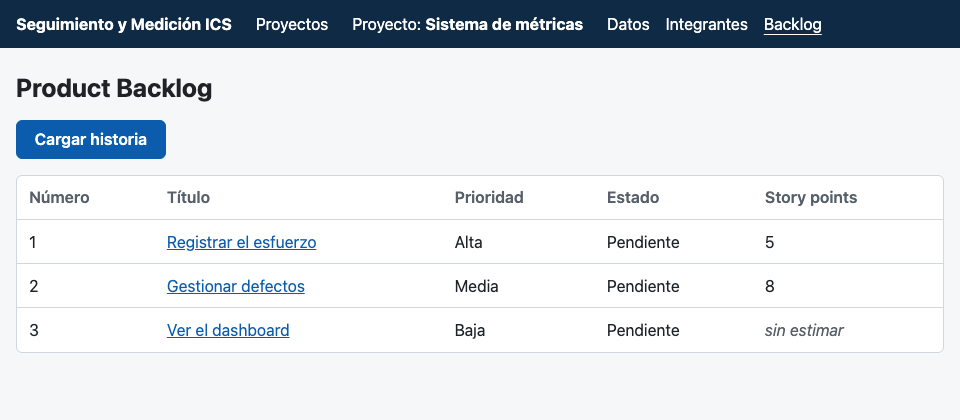
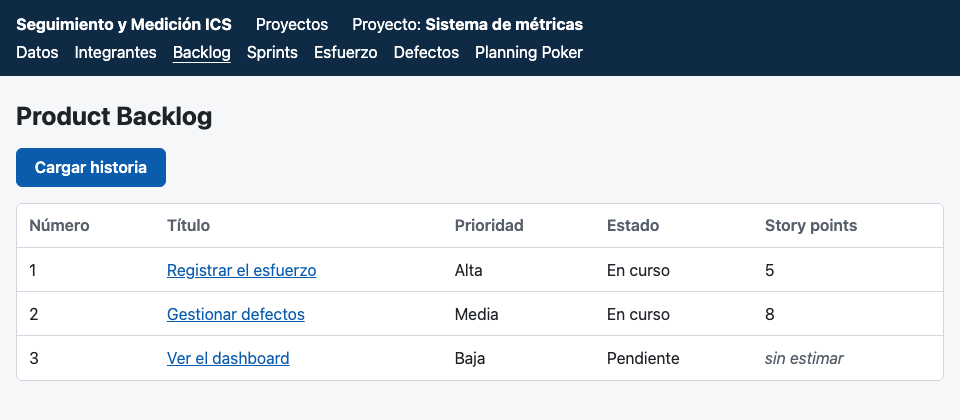
docs: el manual de usuario con las pantallas de la #78 (sprints, esfuerzo, defectos y Planning Poker)
Suma las secciones de sprints (con el cierre), esfuerzo y horas estimadas,
defectos y Planning Poker, el resumen del proyecto, la barra nueva y las
filas de «Si algo sale mal». Las capturas se rehicieron todas, porque la
barra cambió, y se suman las de las pantallas nuevas. El reporte y su PDF
se suman cuando estén la #18 y la #19.

Refs #78

diff --git a/docs/manual-de-usuario.md b/docs/manual-de-usuario.md
@@ -2,10 +2,11 @@
 
 Guía breve para usar el sistema de seguimiento y medición de proyectos. Crece a medida que
 se terminan las historias: hoy cubre la **interfaz web** (historia #77) y la **interfaz de
-consola** (historia #24). Las pantallas de la #78 se suman cuando estén en `dev`.
+consola** (historia #24), y en la web también los sprints, el esfuerzo, los defectos y el
+Planning Poker (historia #78). El reporte y su PDF se suman cuando estén terminados.
 
-Las dos interfaces hacen lo mismo con los proyectos, los integrantes y el backlog, pero **no
-comparten los datos**: la web los guarda en un archivo y los encuentra al volver a abrirla;
+Las dos interfaces hacen lo mismo con los proyectos, los integrantes y el backlog; lo demás
+se hace solo desde la web. **No comparten los datos**: la web los guarda en un archivo y los encuentra al volver a abrirla;
 la consola los pierde al cerrarse.
 
 ## Desde el navegador
@@ -35,12 +36,16 @@ navegador. No hace falta internet. Para cerrarlo, volvé a la terminal y apretá
 ### Cómo se usa
 
 - **La barra de arriba** lleva siempre a la lista de proyectos. Dentro de un proyecto,
-  muestra su nombre y sus tres partes: **Datos**, **Integrantes** y **Backlog**.
+  muestra su nombre y sus partes: **Datos**, **Integrantes**, **Backlog**, **Sprints**,
+  **Esfuerzo**, **Defectos** y **Planning Poker**.
 - **Cada cambio se confirma** con un mensaje en verde arriba de la página. Recargar la página
   no repite el cambio.
 - **Si algo está mal**, el formulario vuelve con lo que escribiste y el motivo en rojo,
   debajo del campo que hay que corregir. Corregilo y volvé a enviar.
-- **Antes de quitar algo**, el sistema pregunta. Con «Cancelar» no cambia nada.
+- **Antes de lo que no se deshace** (quitar algo, cerrar un sprint o resolver un defecto),
+  el sistema pregunta. Con «Cancelar» no cambia nada.
+- **Lo que se elige de una lista** (un integrante, una historia, un sprint, la severidad)
+  empieza sin nada elegido: hay que elegirlo a propósito.
 - Todo se puede hacer **con el teclado**: Tab para pasar de un campo a otro y Enter para
   enviar. En Safari, para pasar también por los enlaces, se usa Option+Tab.
 
@@ -57,8 +62,10 @@ lo marca en el campo:
 
 ![Un proyecto sin nombre](manual/proyecto-con-error.png)
 
-Al hacer clic en el nombre de un proyecto se ven sus datos. Con **Modificar proyecto** se
-cambian. Si borrás la descripción o la fecha de fin, el proyecto queda sin ellas.
+Al hacer clic en el nombre de un proyecto se ven sus datos y un resumen: cuántas historias
+tiene, cuántas están completadas y cuántas pendientes, y qué sprint está en curso. Con
+**Modificar proyecto** se cambian los datos. Si borrás la descripción o la fecha de fin, el
+proyecto queda sin ellas.
 
 ![Datos de un proyecto](manual/proyecto.png)
 
@@ -89,21 +96,94 @@ Al hacer clic en una historia se ven todos sus datos. Desde ahí:
 - **Estimar** (o **Reestimar**) le asigna story points, elegidos de la escala 1, 2, 3, 5, 8,
   13 y 21.
 - **Quitar estimación** la deja sin estimar, después de confirmarlo.
+- **Cargar horas estimadas** le pone las horas que se calcula que va a llevar. Se pueden
+  escribir con coma o con punto, por ejemplo `6,5`.
 
 ![Una historia](manual/historia.png)
+
+### Sprints
+
+En **Sprints** están todos los sprints del proyecto, con su Sprint Goal, sus fechas, su
+estado y, si ya se cerró, la fecha de cierre. Con **Nuevo sprint** se crea uno: el Sprint
+Goal y las fechas de inicio y de fin. Hay un solo sprint abierto por vez.
+
+Al hacer clic en el sprint abierto se ve su Sprint Backlog. Desde ahí:
+
+- **Asignar al sprint** suma una historia del backlog, elegida de la lista. Solo se pueden
+  asignar historias estimadas: si no, el sistema lo avisa junto a la lista.
+- **Quitar** saca una historia del sprint, después de confirmarlo. La historia vuelve a
+  quedar Pendiente.
+
+![Un sprint abierto](manual/sprint.png)
+
+**Cerrar el sprint** pide la fecha de cierre (propone la de hoy) y que marques las historias
+que se completaron. Antes de cerrarlo, el sistema muestra cuáles quedan completadas y
+cuáles vuelven al Product Backlog, y pide confirmarlo: un sprint cerrado no se vuelve a
+abrir.
+
+![Cerrar un sprint](manual/cerrar-sprint.png)
+
+Un sprint cerrado se sigue pudiendo consultar: muestra su fecha de cierre y, por cada
+historia, los story points que tenía al cerrarse y si se completó.
+
+### Esfuerzo
+
+En **Esfuerzo** se ven las horas trabajadas: el total por historia, el total por integrante
+y todos los registros. Con **Registrar horas** se carga uno: quién trabajó, en qué historia,
+qué día (propone el de hoy), cuántas horas y qué hizo. Las horas aceptan decimales (`2,5`).
+No se pueden cargar horas de un día que todavía no pasó. Si el proyecto no tiene
+integrantes, el formulario lo dice y ofrece agregar el primero.
+
+![Horas trabajadas](manual/esfuerzo.png)
+
+### Defectos
+
+En **Defectos** están los errores encontrados, con su severidad, su estado, la historia
+donde apareció y en qué sprint se detectó y se resolvió. Con **Nuevo defecto** se carga uno:
+título, descripción, severidad (Crítica, Mayor o Menor), la historia y el sprint en que se
+detectó. Empieza Abierto. Si el proyecto no tiene sprints, el formulario lo dice y ofrece
+crear el primero.
+
+Arriba de la lista se puede **filtrar por estado** o **por severidad**, uno por vez. Con
+**Ver todos los defectos** se saca el filtro.
+
+![Defectos de un proyecto](manual/defectos.png)
+
+Al hacer clic en un defecto se ven sus datos. Desde ahí se lo pasa entre **Abierto** y **En
+curso**, o se lo **resuelve** eligiendo en qué sprint se resolvió, que no puede ser
+anterior al de detección. Resolverlo pide confirmación, y un defecto resuelto ya no cambia.
+
+### Planning Poker
+
+En **Planning Poker** se elige una historia y se abre una ronda para estimarla. Cada
+integrante elige su nombre de la lista de los que faltan y vota sus story points. **Nadie ve
+ningún voto hasta revelar la ronda**, ni siquiera quien lo dio: la página muestra solo
+quiénes votaron y quiénes faltan.
+
+![Una ronda antes de revelar](manual/ronda.png)
+
+Cuando votaron todos, **Revelar la ronda** muestra cada voto y si hay diferencias, con el
+voto más bajo y el más alto y quiénes los dieron. Desde ahí se puede:
+
+- **Acordar** la estimación, que queda como los story points de la historia.
+- **Abrir una ronda nueva**, para volver a votar después de conversar las diferencias.
+
+![Una ronda revelada](manual/ronda-revelada.png)
+
+Con **Todas las rondas de la historia** se ven las rondas anteriores y lo que se acordó en
+cada una.
 
 ### Si algo sale mal
 
 | Lo que ves | Qué hacer |
 |---|---|
 | Un mensaje en rojo debajo de un campo | corregir ese campo y volver a enviar |
-| «No se encontró el proyecto» o «la historia» | volver a la lista con el botón y elegirlo de ahí |
+| «No se encontró el proyecto», «la historia», «el sprint», «el defecto» o «la ronda» | volver con el botón y elegirlo de la lista |
+| «Ya hay un sprint abierto en el proyecto» al crear uno | cerrar primero el sprint abierto |
+| «Todavía faltan votos para revelar la ronda» | esperar a que voten todos los que figuran en «Faltan» |
 | «El cambio no quedó guardado» | el cambio sigue cargado y se guarda con el próximo que funcione; revisá que se pueda escribir en la carpeta de los datos |
 | Al abrir, «el puerto ya lo está usando otro programa» | abrirlo con `-puerto 8081` |
 | Al abrir, «los datos guardados no se pueden leer» | arreglar el archivo de datos o arrancar con otro usando `-datos` |
-
-Las pantallas de sprints, esfuerzo, defectos, Planning Poker y reportes se suman a este
-manual cuando estén terminadas (historia #78).
 
 ## Desde la consola
 
